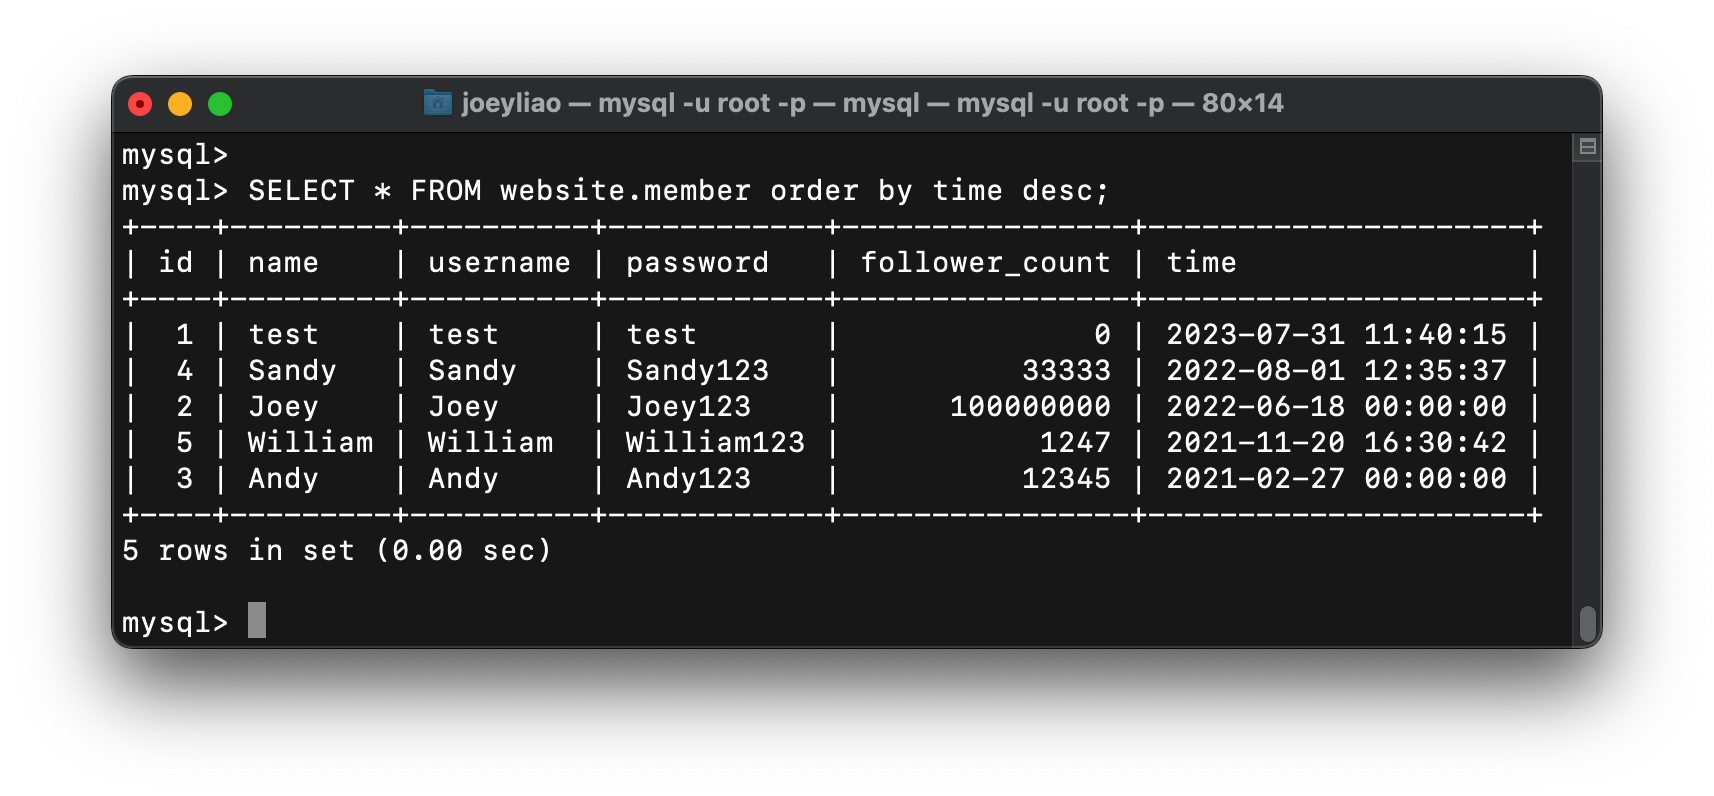
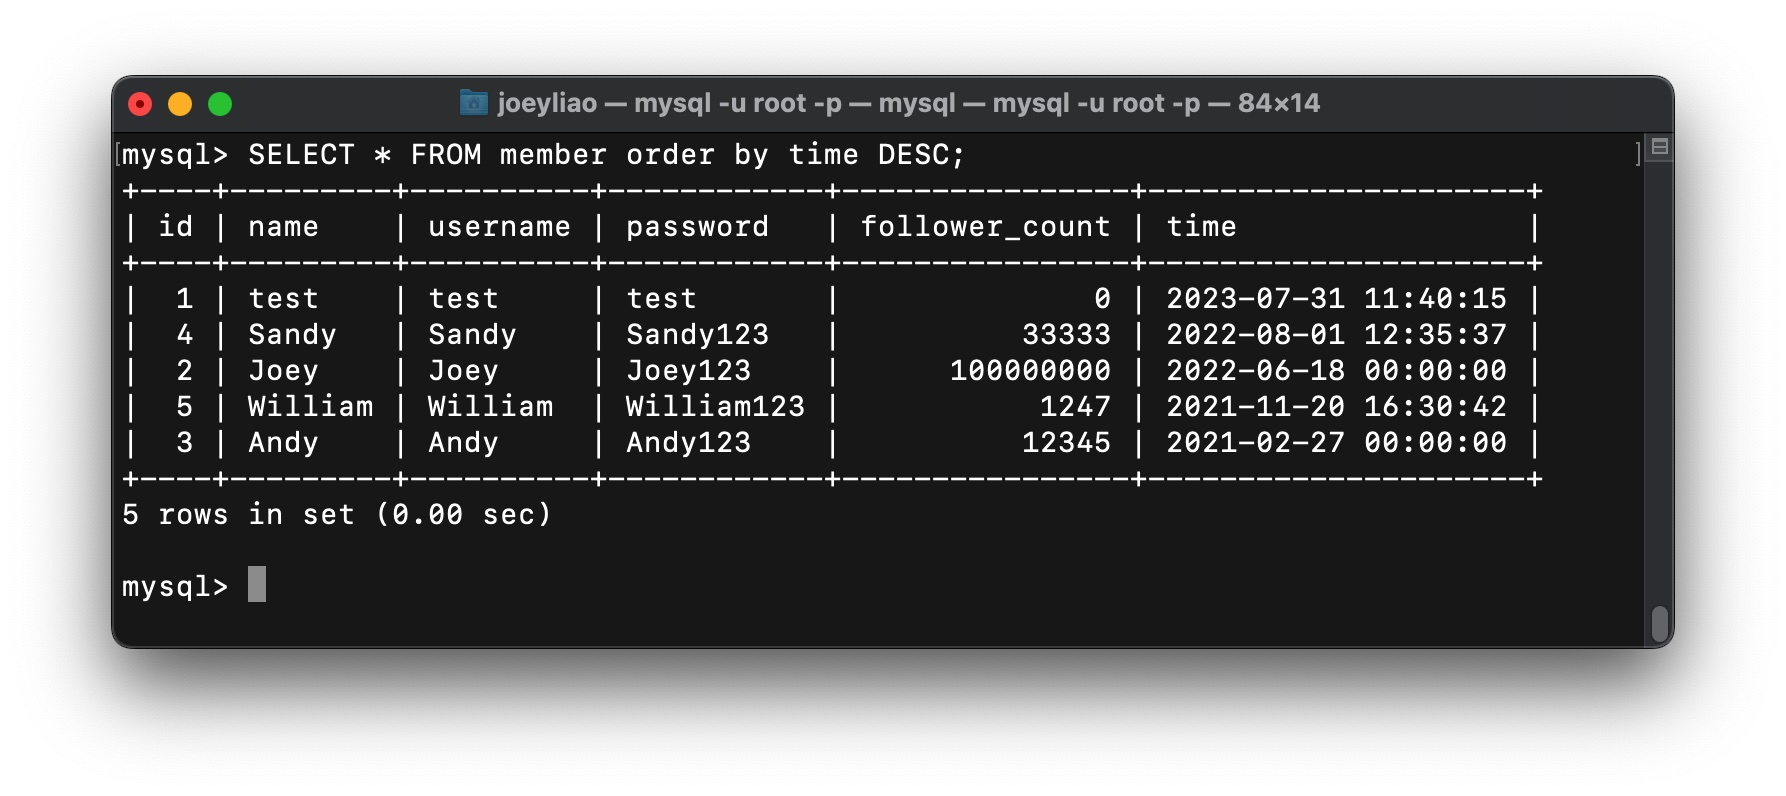
v2

Changed region(s): [[0.0618, 0.0905, 0.8967, 0.8141], [0.8967, 0.0905, 0.9586, 0.8141], [0.2474, 0.0905, 0.7421, 0.1508]]

diff --git a/README.md b/README.md
@@ -10,23 +10,17 @@ SELECT * FROM website.member;
 
 ```sql
 CREATE TABLE member (
-
-    ->     id BIGINT PRIMARY KEY AUTO_INCREMENT,
-
-    ->     name VARCHAR(255) NOT NULL,
-
-    ->     username VARCHAR(255) NOT NULL,
-
-    ->     password VARCHAR(255) NOT NULL,
-
-    ->     follower_count INT UNSIGNED NOT NULL DEFAULT 0,
-
-    ->     time DATETIME NOT NULL DEFAULT CURRENT_TIMESTAMP
-
-    -> );
+        id BIGINT PRIMARY KEY AUTO_INCREMENT,
+        name VARCHAR(255) NOT NULL,
+        username VARCHAR(255) NOT NULL,
+        password VARCHAR(255) NOT NULL,
+        follower_count INT UNSIGNED NOT NULL DEFAULT 0,
+        time DATETIME NOT NULL DEFAULT CURRENT_TIMESTAMP
+    );
 ```
 
 id：PK，自動遞增。
+
 name：字串，不能為空。
 username：字串，不能為空。
 password：字串，不能為空。
@@ -60,6 +54,8 @@ INSERT INTO member(name, username, password, follower_count, time)
 VALUES('William', 'William', 'William123', 1247, '2021-11-20 16:30:42');
 ```
 
+先指定 website 資料庫，後面的指令就不用加上 website.(沒有截到 USE website;)
+
 ![結果：](https://github.com/joeyliao127/week5/blob/master/result/Task3-1InsertData.jpg)
 
 ## Task3-2 顯示所有資料
@@ -89,7 +85,7 @@ SELECT 顯示的欄位 FROM 資料表 order by 欄位 DESC;
 Code：
 
 ```sql
-SELECT * FROM website.member order by time desc;
+SELECT * FROM member order by time desc;
 ```
 
 ![結果：](https://github.com/joeyliao127/week5/blob/master/result/Task3-3-TimeSortDesc.jpg)
@@ -137,7 +133,7 @@ SELECT * FROM 資料表 where 條件1 and 條件2 ;
 Code：
 
 ```sql
-SELECT * FROM website.member where username = "test" and password = "test";
+SELECT * FROM member where username = "test" and password = "test";
 ```
 
 ![結果：](https://github.com/joeyliao127/week5/blob/master/result/Task3-6-UsernameAndPassword.jpg)
